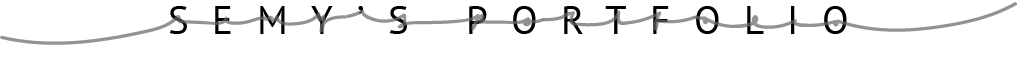
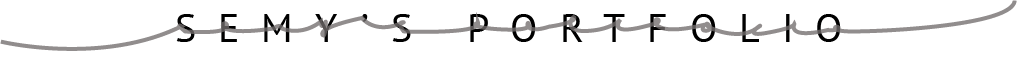
05/25(2)

Changed region(s): [[0.0, 0.0, 1.0, 0.7647]]

diff --git a/about.html b/about.html
@@ -30,6 +30,10 @@
       Everyday people are scrambling to get to work, school or try to get parts of their life together. Rarely do we have time nowadays to take a breath and just look around to absorb our surroundings. In this generation, people are satisfied with seeing people through social media or online, even at a family gathering, people are on their phones instead of interacting with one another. Some people try to get a breather from their busy lives by meditating, baking or going shopping, I personally take a camera, go outside or set up lights to take pictures that capture both the chaos we're living in and the beauty we miss out on in life. Even through a lens, you can capture emotions that are difficult to perceive now. Portraits of people from the ages of 5 to 80, smiling, crying and laughing. You can see the look in their eyes, all captured in one photo. Landscapes of the beautiful scenery that you pass by while driving, or the hectic New York streets and the aftermath of tragedies that not everyone knows about. Images that convey such emotion, and the things that people witness and go through are what influence the future generations. What I try to do is to share a portion of these images to tell a story...
     </p>
 
+<a href="resume.html">
+    <img  id="resume"src="media/Layer%203.png" alt="" class="center">
+    </a>
+
    <div id="bottom" class="box pink">
    </div>
     </body>

diff --git a/resume.html b/resume.html
@@ -1,0 +1,27 @@
+<!DOCTYPE html>
+<html lang="en">
+<head>
+    <meta charset="UTF-8">
+    <link rel="stylesheet" href="aboutstyle.css">
+    <title>about</title>
+</head>
+<body>
+<div id="logo">
+<a href="index.html">
+ <img src="media/kong.semy.logo%20(1).png" alt="logo" height="165.25" width="84.25">
+ </a>
+</div>
+     <h1> </h1>
+      <nav>
+   <ul id="nav-flex">
+       <li><a href="/about.html">ABOUT</a></li>
+       <li><a href="/portfolio.html">PORTFOLIO</a></li>
+       <li><a href="/products.html">PRODUCTS</a></li>
+   </ul>
+   </nav>
+      <img id="header" src="media/Layer%203.png" alt="" class="center">
+
+      <div id="top" class="box grey">
+      </div>
+
+     <img  id="document"src="resume.png" alt="" class="center" width="1275" height="1650">

diff --git a/index.html b/index.html
@@ -18,7 +18,7 @@
    </ul>
    </nav>
 
-<img id="banner" src="media/banner.png" alt="" class="center">
+<img id="banner" src="media/blunt.png" alt="" class="center">
 
 
    <img id="header" src="media/important.JPG" alt="flower" width="793.65" height="560.3">

diff --git a/aboutstyle.css b/aboutstyle.css
@@ -144,5 +144,14 @@ a:hover{
     z-index: 10;
 }
 
+#resume   {
+    position: relative;
+    padding: 50px;
+}
+
+#document {
+    margin-top: 200px;
+    border: white solid 10px;
+}
 
 
